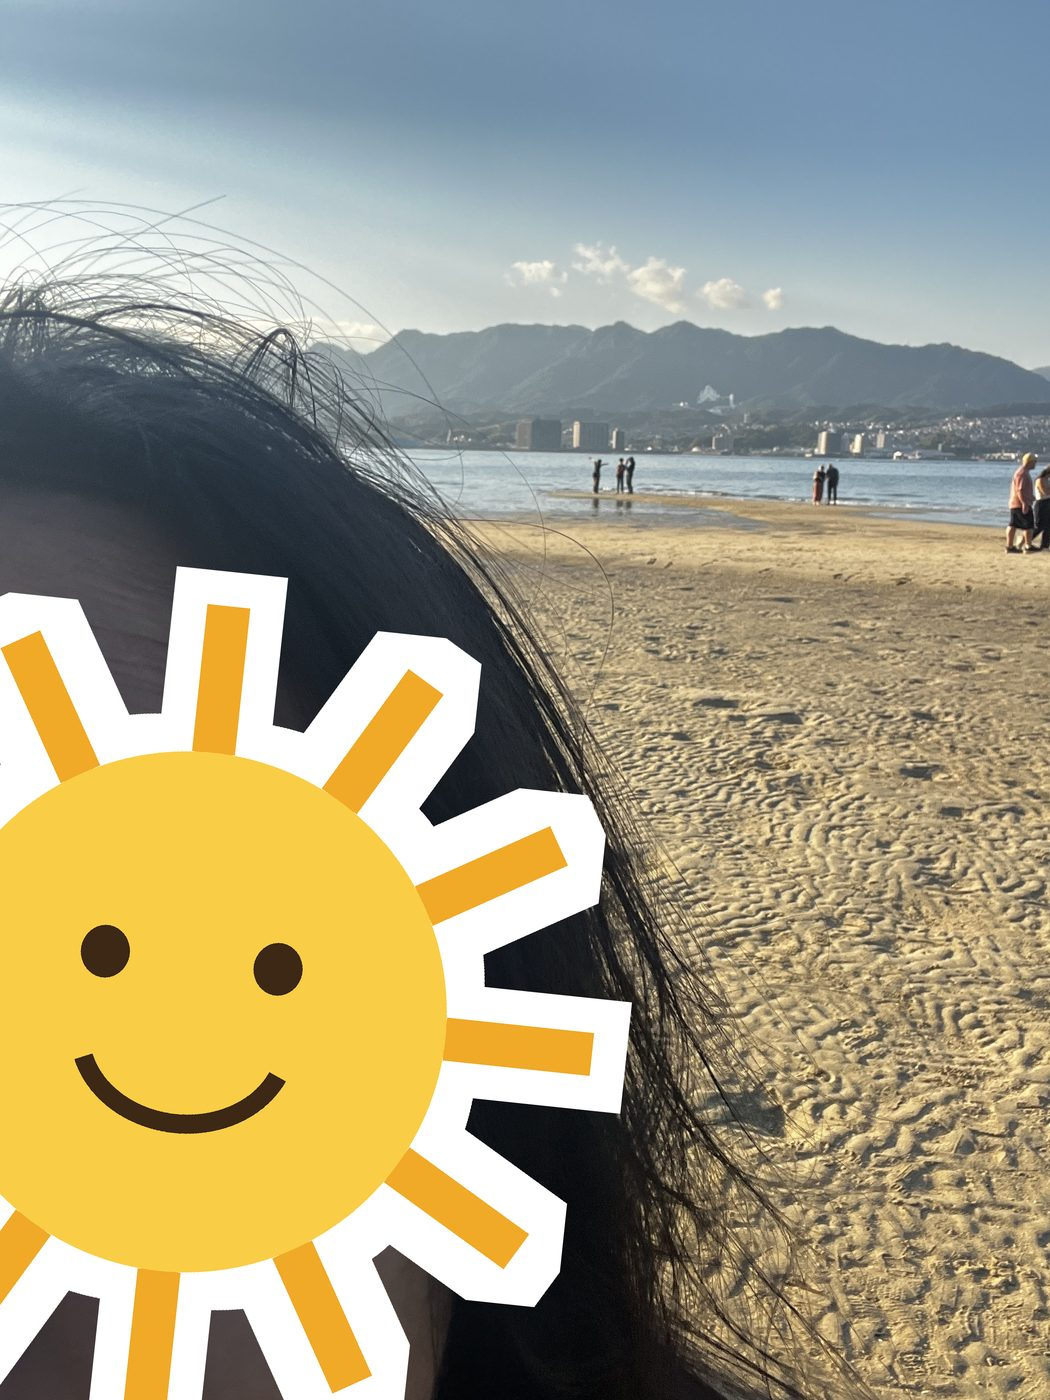
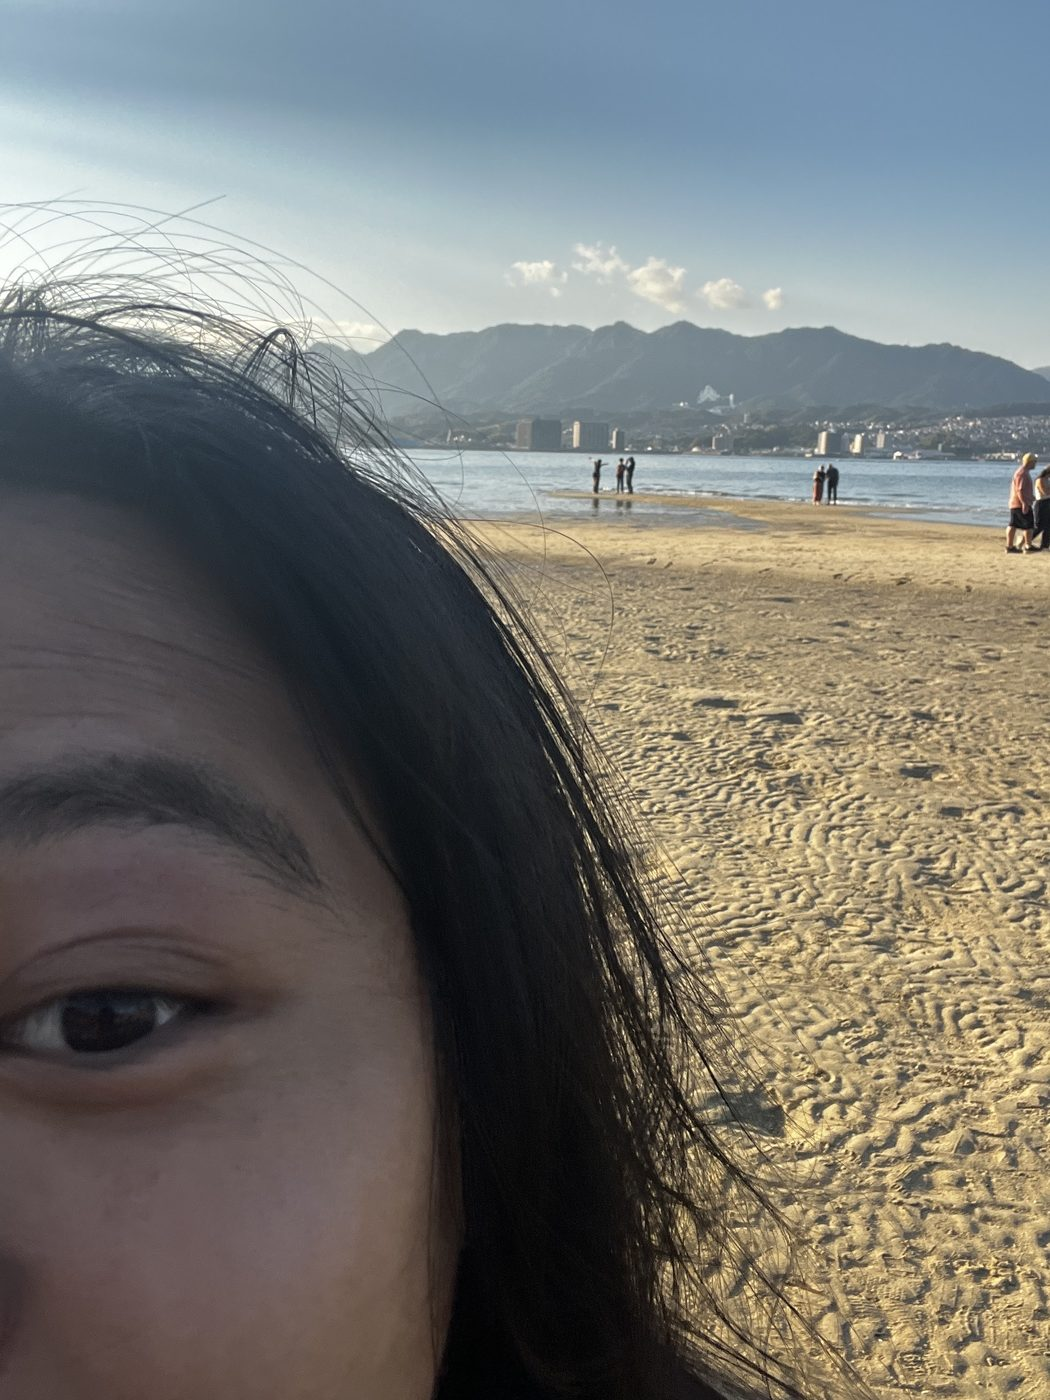
Miyajima: selfies are Aldrich, so no stickers on them
Claude-Session: https://claude.ai/code/session_01VrQmsA3GYdpzdxj4nhi4R2

Changed region(s): [[0.0, 0.3993, 0.6095, 1.0]]

diff --git a/_journal/2026-10-12-miyajima.md b/_journal/2026-10-12-miyajima.md
@@ -57,11 +57,11 @@ timeline:
       - { src: /assets/images/journal/2026-10-12-miyajima/low-tide-torii.jpg, caption: "low tide" }
       - { src: /assets/images/journal/2026-10-12-miyajima/torii-clouds.jpg, caption: "clouds behind the gate" }
       - { src: /assets/images/journal/2026-10-12-miyajima/torii-and-me.jpg, caption: "made it out to the gate" }
-      - { src: /assets/images/journal/2026-10-12-miyajima/torii-sunburst.jpg, caption: "sun right behind it" }
-      - { src: /assets/images/journal/2026-10-12-miyajima/torii-wide.jpg, caption: "the whole crowd on the flats" }
+      - { src: /assets/images/journal/2026-10-12-miyajima/torii-sunburst.jpg, caption: "me, with the sun right behind the gate" }
+      - { src: /assets/images/journal/2026-10-12-miyajima/torii-wide.jpg, caption: "me and the crowd on the flats" }
       - { src: /assets/images/journal/2026-10-12-miyajima/torii-silhouette.jpg, caption: "silhouettes" }
       - { src: /assets/images/journal/2026-10-12-miyajima/tide-reflections.jpg, caption: "sky in the wet sand" }
-      - { src: /assets/images/journal/2026-10-12-miyajima/beach.jpg, caption: "on the beach" }
+      - { src: /assets/images/journal/2026-10-12-miyajima/beach.jpg, caption: "me on the beach" }
       - { src: /assets/images/journal/2026-10-12-miyajima/shoreline.jpg, caption: "the waterline" }
   - time: "5:09 pm"
     title: Oyster skewers by the water
